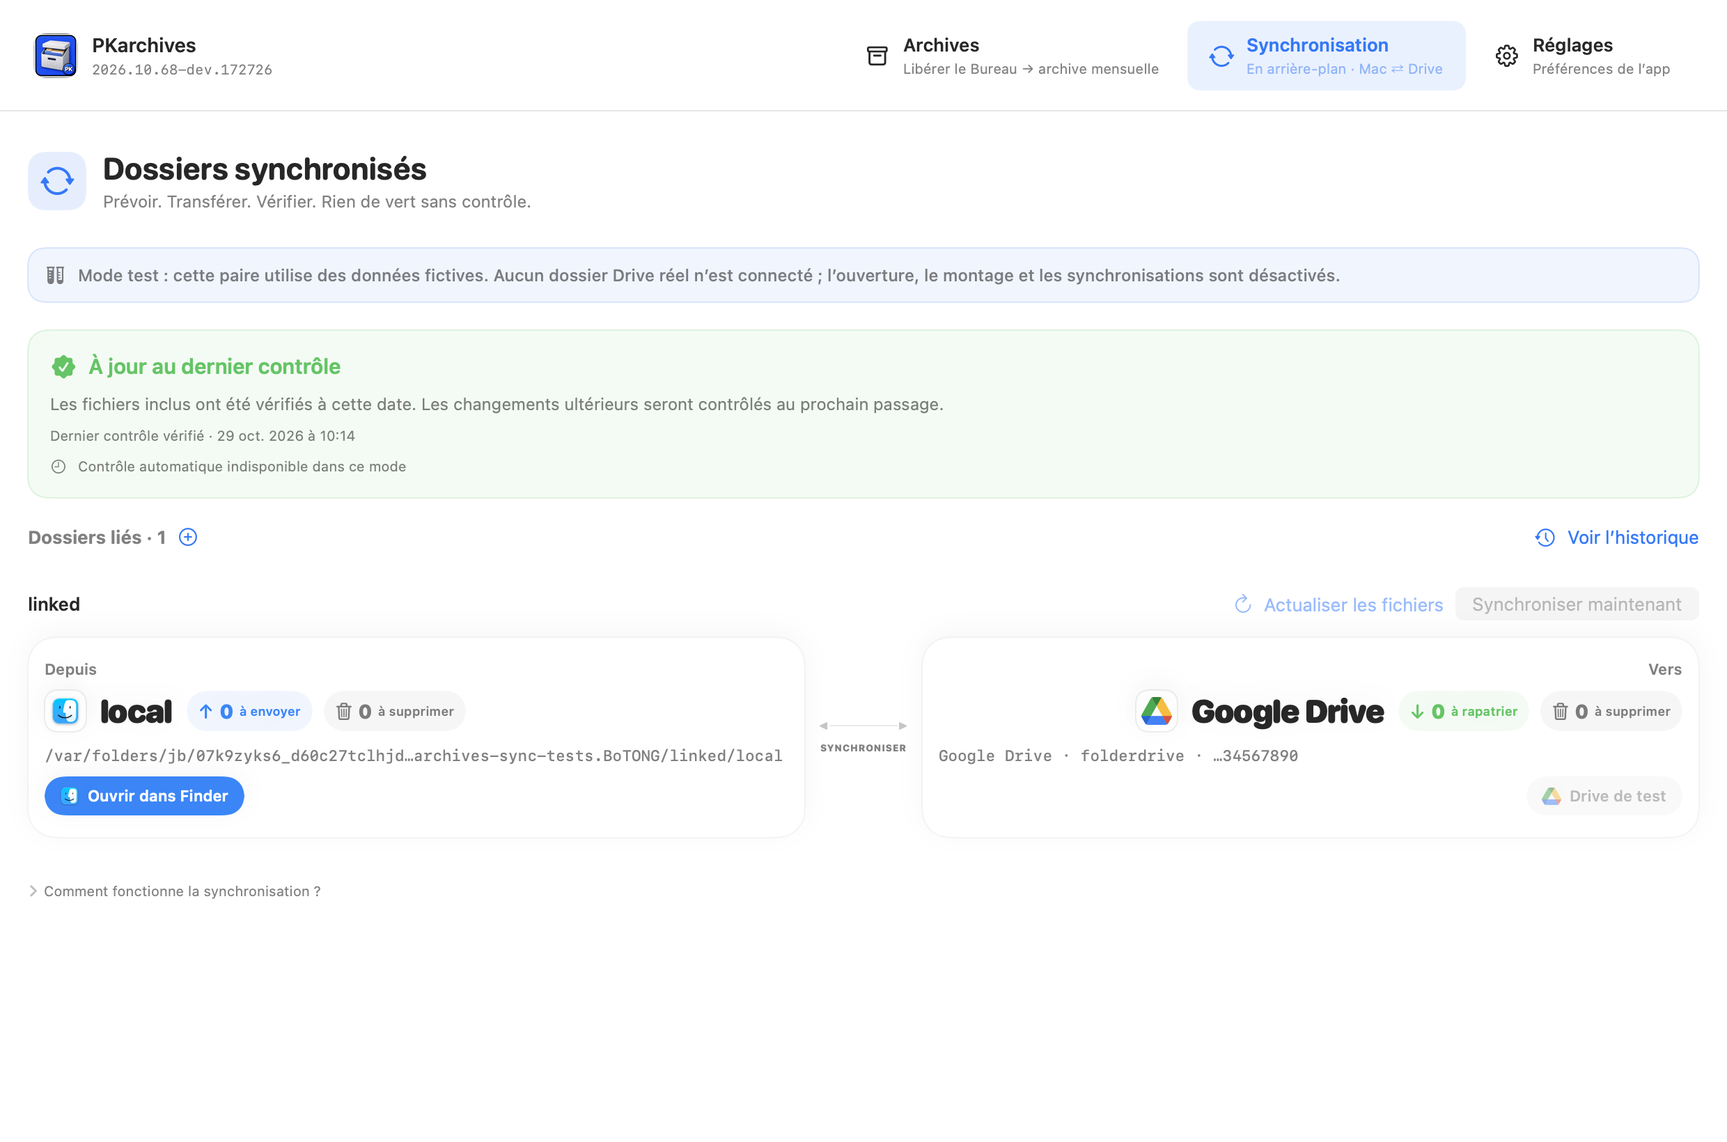
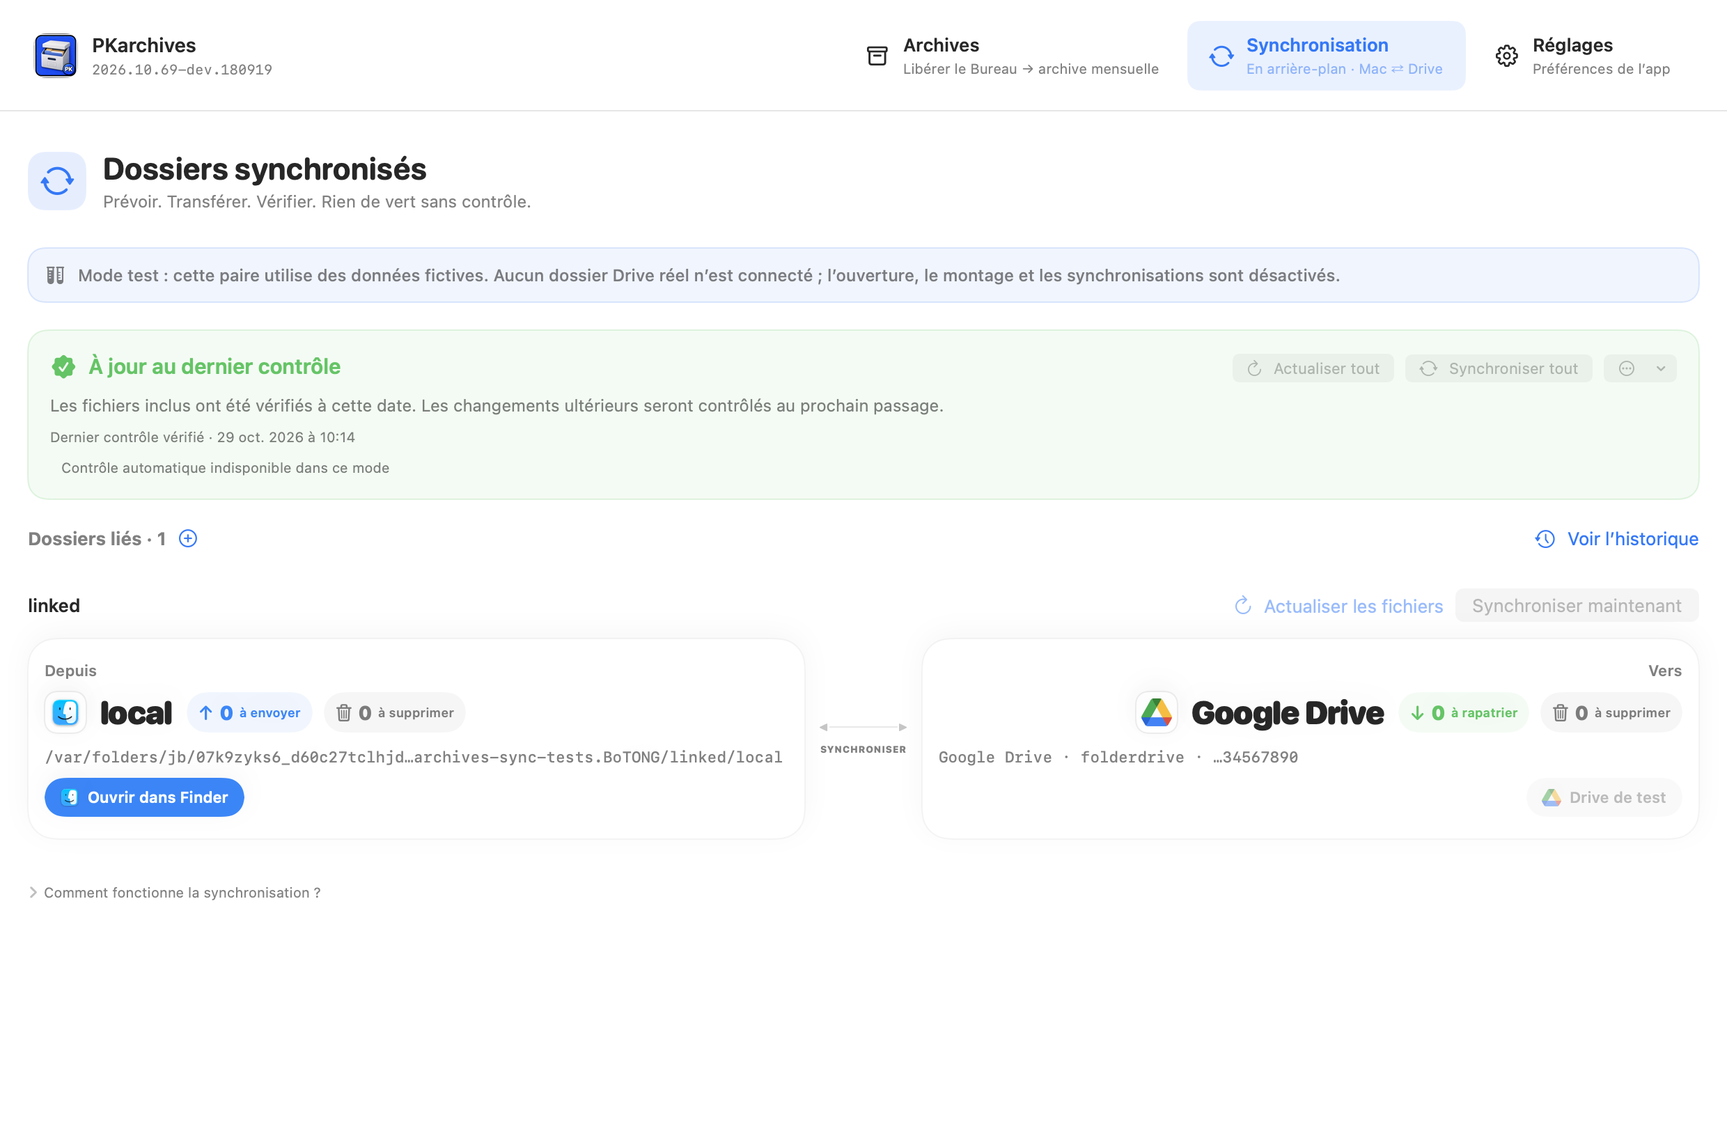
FIX: rendre les actions globales visibles et annoncer le prochain controle

diff --git a/src/macos/PKSync.swift b/src/macos/PKSync.swift
@@ -103,7 +103,11 @@ private let syncStrings: [String: [String]] = [
     "status.paused": ["Synchronisation en pause", "Sync paused", "Sincronización pausada", "Synchronisierung pausiert"],
     "status.lastChecked": ["Dernier contrôle vérifié", "Last verified check", "Última comprobación verificada", "Letzter bestätigter Abgleich"],
     "status.lastTransfers": ["Dernière synchronisation : %d envoyés · %d rapatriés · %d supprimés", "Last sync: %d sent · %d received · %d deleted", "Última sincronización: %d enviados · %d recibidos · %d borrados", "Letzter Abgleich: %d gesendet · %d empfangen · %d gelöscht"],
-    "status.cadence": ["Automatique tant que l’app est ouverte · Mac : 45 s après un changement · Drive : environ chaque heure et au réveil", "Automatic while the app is open · Mac: 45 s after a change · Drive: about hourly and on wake", "Automático con la app abierta · Mac: 45 s tras un cambio · Drive: cada hora y al despertar", "Automatisch bei geöffneter App · Mac: 45 s nach Änderung · Drive: etwa stündlich und nach dem Aufwachen"],
+    "status.cadence": ["Arrière-plan via l’icône 📦 tant que l’app est ouverte · Mac : 45 s après un changement · Drive : environ chaque heure et au réveil", "Background via the 📦 icon while the app is open · Mac: 45 s after a change · Drive: about hourly and on wake", "Segundo plano con el icono 📦 mientras la app está abierta · Mac: 45 s tras un cambio · Drive: cada hora y al despertar", "Hintergrund über das 📦-Symbol bei geöffneter App · Mac: 45 s nach Änderung · Drive: etwa stündlich und nach dem Aufwachen"],
+    "status.nextCheck": ["Prochain contrôle automatique :", "Next automatic check:", "Próxima comprobación automática:", "Nächste automatische Prüfung:"],
+    "refreshAllFiles": ["Actualiser tout", "Refresh all", "Actualizar todo", "Alle aktualisieren"],
+    "syncAllNow": ["Synchroniser tout", "Sync all", "Sincronizar todo", "Alle synchronisieren"],
+    "pausedUntilLabel": ["En pause jusqu’à %@", "Paused until %@", "En pausa hasta %@", "Pausiert bis %@"],
     "status.cadenceOff": ["Contrôle automatique indisponible dans ce mode", "Automatic checks unavailable in this mode", "Comprobación automática no disponible en este modo", "Automatische Prüfung in diesem Modus nicht verfügbar"],
     "syncNow": ["Synchroniser maintenant", "Sync now", "Sincronizar ahora", "Jetzt synchronisieren"],
     "refreshFiles": ["Actualiser les fichiers", "Refresh files", "Actualizar archivos", "Dateien aktualisieren"],
@@ -594,17 +598,6 @@ struct SyncSectionView: View {
                             .accessibilityLabel(syncText("createPair"))
                             .disabled(engine.busy || engine.storageError != nil)
                         Spacer()
-                        if engine.pairs.count > 1 {
-                            Menu {
-                                Button(syncText("simulateAll")) { engine.syncAll(dryRun: true) }
-                                Button(syncText("all")) { engine.syncAll() }
-                                Button(syncText("retryAll")) { engine.retryFailed() }
-                                Divider()
-                                if engine.isPaused { Button(syncText("resume")) { engine.resume() } }
-                                else { Button(syncText("pause")) { engine.pauseForHours(1) } }
-                            } label: { Label(syncText("globalActions"), systemImage: "ellipsis") }
-                            .disabled(isQAScreen || engine.busy)
-                        }
                         Button { tab = "history" } label: {
                             Label(syncText("viewHistory"), systemImage: "clock.arrow.circlepath")
                         }.buttonStyle(.plain).foregroundStyle(Color.accentColor)
@@ -707,7 +700,31 @@ struct SyncSectionView: View {
         let lastVerified = enabled.compactMap(\.lastRun).min()
         let lastReal = enabled.count == 1 ? engine.runs.first(where: { $0.pair.id == enabled[0].id && !$0.dryRun && $0.finished != nil }) : nil
         return VStack(alignment: .leading, spacing: 9) {
-            Label(title, systemImage: symbol).font(.title3.weight(.semibold)).foregroundStyle(color)
+            HStack(alignment: .firstTextBaseline) {
+                Label(title, systemImage: symbol).font(.title3.weight(.semibold)).foregroundStyle(color)
+                Spacer(minLength: 12)
+                if !enabled.isEmpty {
+                    Button { engine.syncAll(dryRun: true) } label: {
+                        Label(syncText("refreshAllFiles"), systemImage: "arrow.clockwise")
+                    }.controlSize(.small)
+                        .disabled(isQAScreen || engine.busy || engine.storageError != nil)
+                    Button { engine.syncAll() } label: {
+                        Label(syncText("syncAllNow"), systemImage: "arrow.triangle.2.circlepath")
+                    }.buttonStyle(.borderedProminent).controlSize(.small)
+                        .disabled(isQAScreen || engine.busy || engine.storageError != nil)
+                    Menu {
+                        Button { engine.refreshAllInventories() } label: { Label(syncText("refreshCounts"), systemImage: "chart.bar.doc.horizontal") }
+                            .disabled(engine.inventoryBusy || engine.busy || engine.storageError != nil)
+                        Button { engine.retryFailed() } label: { Label(syncText("retryAll"), systemImage: "arrow.clockwise.circle") }
+                        Divider()
+                        if engine.isPaused { Button { engine.resume() } label: { Label(syncText("resume"), systemImage: "play.circle") } }
+                        else { Button { engine.pauseForHours(1) } label: { Label(syncText("pause"), systemImage: "pause.circle") } }
+                    } label: { Image(systemName: "ellipsis.circle") }
+                        .controlSize(.small)
+                        .accessibilityLabel(syncText("globalActions"))
+                        .disabled(isQAScreen)
+                }
+            }
             if engine.storageError != nil { Text(engine.storageError ?? "").font(.callout).foregroundStyle(.orange) }
             else if previewOnly { Text(syncText("status.previewOnlyNote")).font(.callout).foregroundStyle(.secondary) }
             else if verified { Text(syncText("status.checkedNote")).font(.callout).foregroundStyle(.secondary) }
@@ -720,7 +737,16 @@ struct SyncSectionView: View {
                 Text(String(format: syncText("status.lastTransfers"), transfers.sent, transfers.received, transfers.deleted))
                     .font(.caption.monospacedDigit()).foregroundStyle(.secondary)
             }
-            Label(syncText(engine.automaticEnabled ? "status.cadence" : "status.cadenceOff"), systemImage: "clock")
+            if let paused = engine.pausedUntil {
+                Text(String(format: syncText("pausedUntilLabel"), paused.formatted(date: .omitted, time: .shortened)))
+                    .font(.caption.weight(.medium)).foregroundStyle(.orange)
+            } else if engine.automaticEnabled, let next = engine.nextAutomaticCheck {
+                TimelineView(.periodic(from: .now, by: 10)) { _ in
+                    Text("\(syncText("status.nextCheck")) \(next.formatted(.relative(presentation: .named))) (\(next.formatted(date: .omitted, time: .shortened)))")
+                        .font(.caption.weight(.medium)).foregroundStyle(.secondary)
+                }
+            }
+            Label(syncText(engine.automaticEnabled ? "status.cadence" : "status.cadenceOff"), systemImage: engine.automaticEnabled ? "menubar.rectangle" : "clock.slash")
                 .font(.caption).foregroundStyle(.secondary).fixedSize(horizontal: false, vertical: true)
         }
         .padding(16).frame(maxWidth: .infinity, alignment: .leading)

diff --git a/src/macos/PKSyncEngine.swift b/src/macos/PKSyncEngine.swift
@@ -321,6 +321,8 @@ final class SyncEngine: ObservableObject {
     @Published private(set) var runProgress: RunProgress?
     @Published private(set) var archiveInProgress = false
     @Published private(set) var waitingForOperationLock = false
+    /// When the next automatic check fires while the app runs; nil when paused or unscheduled.
+    @Published private(set) var nextAutomaticCheck: Date?
     private var activePlan: PreviewPlan?
     private var planResyncDirection: String?
     let disk: SyncDisk
@@ -1395,14 +1397,19 @@ final class SyncEngine: ObservableObject {
     private func schedule() {
         guard automatic, storageError == nil, !shuttingDown else { return }
         timer?.invalidate(); timer = nil
-        guard pairs.contains(where: \.enabled) else { return }
+        guard pairs.contains(where: \.enabled) else { nextAutomaticCheck = nil; return }
         var deadlines = [remoteDue]
         deadlines += cooldowns.values.filter { $0 > Date() }
-        if let pausedUntil { deadlines = [pausedUntil] }
-        else {
+        if let pausedUntil {
+            deadlines = [pausedUntil]
+            nextAutomaticCheck = nil
+        } else {
             let eligible = pairs.filter { $0.enabled && !$0.archiveReviewRequired && !($0.direction.usesBisync && $0.needsResync) }
             deadlines += eligible.compactMap { pair in localDue[pair.id].map { max($0, cooldowns[pair.remote] ?? .distantPast) } }
             deadlines += eligible.compactMap { pair in pair.nextRetryAt.map { max($0, cooldowns[pair.remote] ?? .distantPast) } }
+            // Display purpose only: when the next comparison happens, cooldowns excluded.
+            nextAutomaticCheck = ([remoteDue] + eligible.compactMap { localDue[$0.id] } + eligible.compactMap { $0.nextRetryAt })
+                .filter { $0 > Date() }.min()
         }
         if waitingForOperationLock { deadlines.append(Date().addingTimeInterval(3)) }
         guard let next = deadlines.min() else { return }

diff --git a/tests/SyncEngineTests.swift b/tests/SyncEngineTests.swift
@@ -677,6 +677,11 @@ struct TestFailure: Error { let message: String }
         watcher.tick(now: Date().addingTimeInterval(46))
         try wait(watcher)
         try expect(read(root.appendingPathComponent("remote/watcher/file.txt")) == "after", "Watcher queue did not sync change")
+        try expect(watcher.nextAutomaticCheck != nil, "Next automatic check not exposed to the interface")
+        watcher.pauseForHours(1)
+        try expect(watcher.nextAutomaticCheck == nil, "Paused engine still announces a next check")
+        watcher.resume()
+        try expect(watcher.nextAutomaticCheck != nil, "Resumed engine lost its next check")
         watcher.shutdown()
 
         print("PASS · \(checks) assertions · previews, push/pull/bisync, verification, recovery, retries, pause, locks")

diff --git a/README.md b/README.md
@@ -66,7 +66,7 @@ des menus. Pour compiler soi-même : `./scripts/build.sh`.
 Le nouveau mode est disponible dans les sources et la build Dev, **pas encore dans les téléchargements Stable ci-dessous**. L’archivage du Bureau reste un mode séparé ; la CLI/TUI ne propose pas encore la synchronisation.
 
 1. L’app démarre sur **Archives**, premier onglet (**⌘1**), pour le nettoyage mensuel du Bureau. La navigation **Archives / Synchronisation / Réglages** est regroupée à droite, séparée du titre PKarchives, avec le même format pour les trois boutons. Choisir **Synchronisation**, identifié « En arrière-plan » (**⌘2**), puis **Créer une paire**. Les tâches de synchro continuent indépendamment de l’onglet affiché. La liste **Dossiers liés** montre les dossiers Mac reliés à Drive ; **Voir l’historique** ouvre les rapports sans sélecteur segmenté.
-2. L’écran affiche d’abord un **statut global** : dernier contrôle vérifié (daté, pas une garantie permanente), changements à vérifier, simulation seule, pause, exécution ou action nécessaire. Il indique la cadence réelle pendant que l’app est ouverte : changements Mac après 45 s d’attente, Drive environ chaque heure et au réveil. Les panneaux **Depuis / Vers** conservent les compteurs à envoyer, à rapatrier et à supprimer, avec détail au clic. **Actualiser les fichiers** prépare une comparaison sans transfert ; **Synchroniser maintenant** lance une exécution réelle (première fusion confirmée explicitement). Après un contrôle vérifié, les compteurs valent zéro à la date du contrôle ; sinon, sans comparaison disponible, « — » indique une valeur inconnue. Aucun ancien plan ne redevient une liste de transferts à effectuer. Le bilan des nouvelles exécutions distingue les fichiers envoyés, rapatriés et supprimés. La grande boîte de gestion et ses commandes ont disparu de cette vue ; l’inventaire et la gestion des paires se trouvent dans **Réglages → Synchronisation**.
+2. L’écran affiche d’abord un **statut global** : dernier contrôle vérifié (daté, pas une garantie permanente), changements à vérifier, simulation seule, pause, exécution ou action nécessaire, avec deux boutons toujours visibles : **Actualiser tout** (comparaison de toutes les paires, aucun transfert) et **Synchroniser tout**. Le **prochain contrôle automatique** est affiché avec son décompte et son heure. La cadence réelle : changements Mac contrôlés 45 s après modification, Drive environ chaque heure et au réveil, en arrière-plan via l’icône 📦 tant que PKarchives est actif — avec lancement à l’ouverture de session dans **Réglages → Général**, la synchronisation peut remplacer l’app Google Drive. Les panneaux **Depuis / Vers** conservent les compteurs à envoyer, à rapatrier et à supprimer, avec détail au clic. **Actualiser les fichiers** prépare une comparaison sans transfert ; **Synchroniser maintenant** lance une exécution réelle (première fusion confirmée explicitement). Après un contrôle vérifié, les compteurs valent zéro à la date du contrôle ; sinon, sans comparaison disponible, « — » indique une valeur inconnue. Aucun ancien plan ne redevient une liste de transferts à effectuer. Le bilan des nouvelles exécutions distingue les fichiers envoyés, rapatriés et supprimés. La grande boîte de gestion et ses commandes ont disparu de cette vue ; l’inventaire et la gestion des paires se trouvent dans **Réglages → Synchronisation**.
    **Bureau et archivage** : le Bureau et ses sous-dossiers peuvent être liés à une paire — espace de travail synchronisé, pendant que l’archivage mensuel vide le Bureau vers ses dossiers `AAAA_MM_mois`. Archivage et synchronisation ne tournent jamais en même temps (verrou commun, y compris pour `archive.sh` lancé depuis un terminal). Après un archivage, la paire passe en « copie de travail à réconcilier » : **Actualiser les fichiers** liste les suppressions volontaires, puis une confirmation unique propage ce nettoyage à la copie Drive — fichiers retirés vers le dossier de récupération, Bureau entièrement vidé réconcilié par miroir. Les archives mensuelles restent dans une destination distincte, obligatoirement différente du dossier Drive de travail, et ne sont jamais modifiées par la synchronisation.
 2. Dans le formulaire **Créer une paire**, choisir un dossier Mac dédié et donner un nom à la paire. Dans **Destination sur Google Drive**, laisser la connexion rclone habituelle (`gdrive`), cliquer **Ouvrir Google Drive**, ouvrir le dossier de destination, puis copier son **adresse complète depuis la barre du navigateur** et la coller dans **Lien du dossier**. Exemple : `https://drive.google.com/drive/folders/IDENTIFIANT_DU_DOSSIER`. L’app extrait l’identifiant : ne pas coller le nom du dossier, `gdrive:gdrive` ou le lien d’un fichier. Le navigateur doit être connecté au même compte Google que la connexion rclone ; coller un lien ne donne pas de droits supplémentaires. Enregistrer crée la paire, sans lancer de transfert.
    La méthode **Chemin rclone (avancé)** accepte encore un chemin relatif comme `Sync/Documents`, sans préfixe `gdrive:`. Ce chemin part de la racine du remote, **pas** du dossier d’archivage `PKARCHIVES_DRIVE_FOLDER_ID`. La configuration rclone n’est pas modifiée par la sélection d’un lien.

diff --git a/README_en.md b/README_en.md
@@ -66,7 +66,7 @@ To build it yourself: `./scripts/build.sh`.
 The new mode is available in the sources and Dev build, **not yet in the Stable downloads below**. Desktop archiving remains a separate mode; the CLI/TUI does not offer folder sync yet.
 
 1. The app starts on **Archives**, the first tab (**⌘1**), for monthly Desktop cleanup. **Archives / Synchronization / Settings** are grouped on the right, separate from the PKarchives title, with matching styling for all three buttons. Choose **Synchronization**, marked “In the background” (**⌘2**), then **Create a pair**. Sync jobs continue independently of the displayed tab. **Linked folders** lists the Mac folders connected to Drive; **View history** opens reports without a segmented tab control.
-2. The screen starts with an **overall status**: dated last verified check (not a permanent guarantee), changes awaiting a check, preview-only mode, pause, active run or action needed. It shows the actual cadence while the app is open: Mac changes after a 45-second debounce, Drive about hourly and on wake. The **From / To** panels retain upload, download and deletion counts with file details on click. **Refresh files** compares without transferring; **Sync now** starts a real run (the initial merge requires explicit confirmation). After a verified check, counts show zero as of that check; otherwise, without a comparison, “—” means unknown. An obsolete preview is never revived as pending transfers. New real runs report files sent, received and deleted separately. The large pair-management box and its commands are removed from this view; inventory and pair management live under **Settings → Synchronization**.
+2. The screen starts with an **overall status**: dated last verified check (not a permanent guarantee), changes awaiting a check, preview-only mode, pause, active run or action needed, with two always-visible buttons: **Refresh all** (compare every pair, no transfer) and **Sync all**. The **next automatic check** is shown with its countdown and time. Actual cadence: Mac changes checked 45 s after modification, Drive about hourly and on wake, in the background via the 📦 icon as long as PKarchives runs — with launch at login in **Settings → General**, sync can replace the Google Drive app. The **From / To** panels retain upload, download and deletion counts with file details on click. **Refresh files** compares without transferring; **Sync now** starts a real run (the initial merge requires explicit confirmation). After a verified check, counts show zero as of that check; otherwise, without a comparison, “—” means unknown. An obsolete preview is never revived as pending transfers. New real runs report files sent, received and deleted separately. The large pair-management box and its commands are removed from this view; inventory and pair management live under **Settings → Synchronization**.
    **Desktop and archiving**: the Desktop and its subfolders can be linked to a pair — a synchronized workspace — while monthly archiving keeps clearing the Desktop into its `YYYY_MM_month` folders. Archiving and syncing never run at the same time (shared lock, including `archive.sh` started from a terminal). After an archive, the pair switches to “reconcile working copy”: **Refresh files** lists the deliberate deletions, then a single confirmation propagates that cleanup to the Drive copy — removed files go to the recovery folder, and a fully emptied Desktop is reconciled by mirroring. Monthly archives stay in a separate destination, necessarily different from the working Drive folder, and are never modified by sync.
 2. In the **Create a pair** form, choose a dedicated Mac folder and name the pair. Under **Google Drive destination**, keep the usual rclone connection (`gdrive`), click **Open Google Drive**, open the destination folder, copy its **full address from the browser bar**, and paste it into **Folder link**. Example: `https://drive.google.com/drive/folders/FOLDER_IDENTIFIER`. The app extracts the ID: do not paste the folder name, `gdrive:gdrive` or a file link. The browser must use the same Google account as the rclone connection; pasting a link does not grant additional access. Saving creates the pair without starting a transfer.
    **rclone path (advanced)** still accepts a relative path such as `Sync/Documents`, without the `gdrive:` prefix. It starts at the remote root, **not** the `PKARCHIVES_DRIVE_FOLDER_ID` archive folder. Selecting a folder link does not change rclone configuration.

diff --git a/CHANGELOG.md b/CHANGELOG.md
@@ -4,7 +4,7 @@
 
 ## TODO — Roadmap
 
-Statut : `2026.10.68` (Bureau synchronisable et coordination archivage ↔ synchronisation)
+Statut : `2026.10.69` (actions globales visibles et prochain contrôle affiché)
 
 ### Sécurité & Publication GitHub
 - [x] Supprimer les binaire compilé et .app du repo
@@ -18,6 +18,11 @@ Statut : `2026.10.68` (Bureau synchronisable et coordination archivage ↔ synch
 - [x] Dashboard SwiftUI et TUI avec statistiques et historique
 - [x] Graphique d'activité des archivages
 - [x] Navigation paramètres/historique dans les deux interfaces
+
+### [2026.10.69] - 2026-10-29
+#### Changed
+- « Actualiser tout » et « Synchroniser tout » sont des boutons visibles de la carte de statut, quelle que soit le nombre de paires ; le menu groupé reste pour l’inventaire, les relances et la pause.
+- La carte de statut affiche le prochain contrôle automatique avec son décompte et son heure, puis « En pause jusqu’à… » le cas échéant ; la cadence rappelle le fonctionnement en arrière-plan via l’icône de la barre des menus.
 
 ### [2026.10.68] - 2026-10-29
 #### Added
